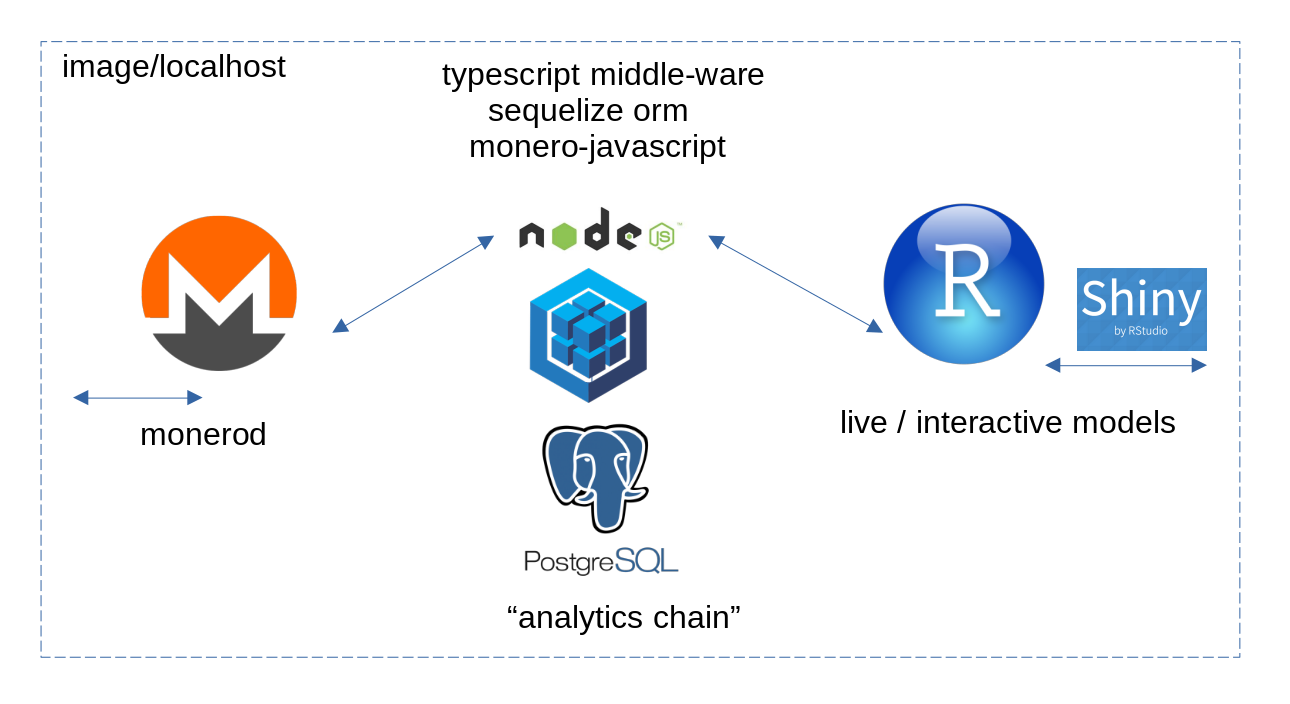
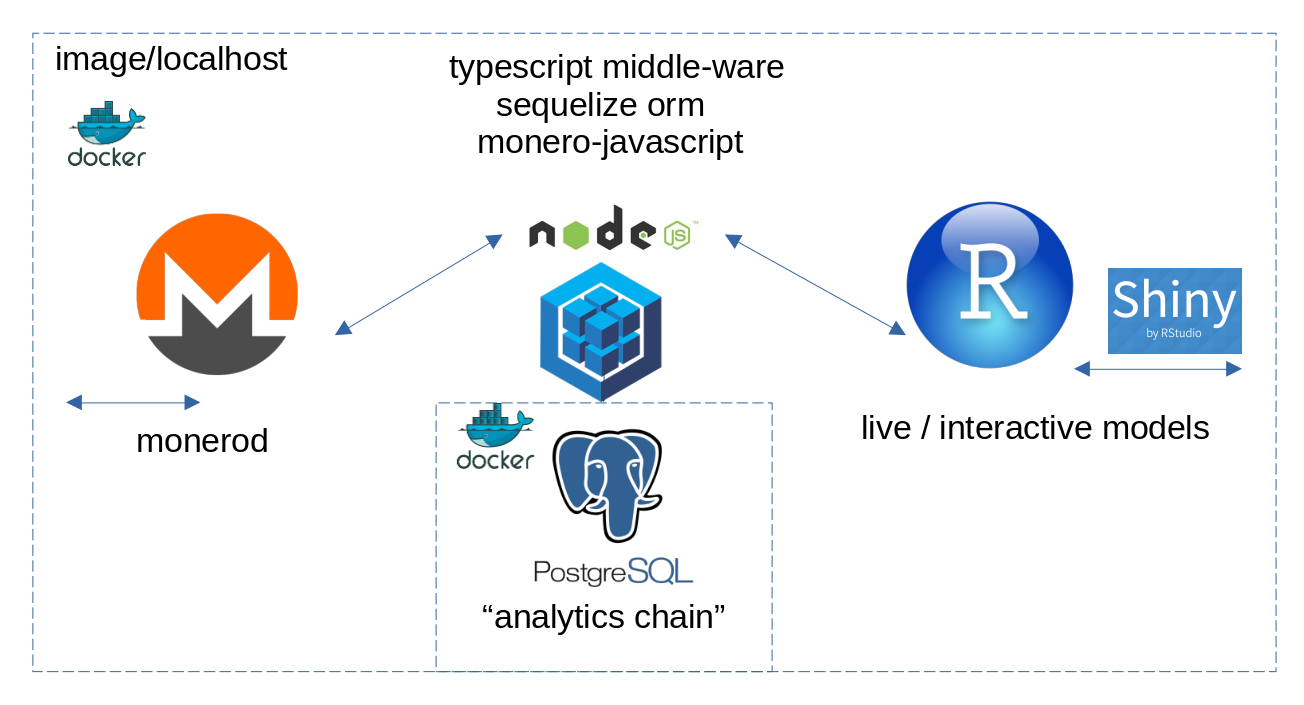
analitiko: migrate to podman + fedora for image builds

diff --git a/analitiko/docker.md b/analitiko/docker.md
@@ -1,0 +1,38 @@
+# Docker
+
+## Automated Model Deployment
+
+Below is a recipe for spinning up a PostgreSQL docker image followed by the Analitiko
+docker image. Feel free to create your own scripts. (Default password is `postgres`)
+
+1. Pull the official PostgreSQL and Analitiko docker images
+
+```bash
+docker pull postgres && docker pull hiahatf/analitiko:v0.1.0
+```
+
+2. Start the PostgreSQL image
+
+```bash
+docker run --rm -P -p <DEVICE_IP>:5432:5432 -e POSTGRES_PASSWORD="<PASSWORD>" --name pg postgres:latest
+```
+
+3. Start Analitiko image
+
+```bash
+docker run --rm -P -p 127.0.0.1:4242:4242 --name analitiko analitiko:v0.1.0 \
+/bin/bash -c "sh deploy.sh <MODEL_DIR> <PGDB_USERNAME> <PGDB_PASSWORD> \
+<DEVICE_IP> <DB_NAME> <NUM_BLOCKS> http://<MONERO_RPC_HOST:PORT>"
+```
+
+OR if you already have a monero node running
+
+```bash
+docker run --rm -P -p 127.0.0.1:4242:4242 --name analitiko analitiko:v0.1.0 \
+/bin/bash -c "sh sync-analitiko.sh <MODEL_DIR> <PGDB_USERNAME> <PGDB_PASSWORD> \
+<DEVICE_IP> <DB_NAME> <NUM_BLOCKS> http://<MONERO_RPC_HOST:PORT>"
+```
+
+That's pretty much it. Sit back and wait for the blockchain and and analytics middleware to sync up.
+The model should be available at port 4242 in this example. Then you can do some cool stuff such as
+running the interactive models with changes on user input. Or put them behind prokurilo and monetize them.

diff --git a/analitiko/README.md b/analitiko/README.md
@@ -55,7 +55,7 @@ Options:
   -h, --pg-host            Postgresql host                   [string] [required]
   -p, --pg-port            Postgresql port                   [string] [required]
       --daemon-host        Host and port of Monero Daemon RPC.
-                                   [boolean] [default: "http://localhost:38081"]
+                                   [string] [default: "http://localhost:38081"]
       --daemon-user        Username of Monero Daemon RPC. [string] [default: ""]
       --daemon-credential  Password of Monero Daemon RPC. [string] [default: ""]
       --num-blocks         Number of blocks from tip to extract
@@ -78,3 +78,7 @@ Missing required arguments: pg-user, pg-credential, pg-db-name, pg-host, pg-port
 [INFO]  2022-03-26T05:31:08.699Z => processed 200 block(s)
 [INFO]  2022-03-26T05:31:15.554Z => processed 300 block(s)
 ```
+
+## Docker
+
+see [docker.md](./docker.md)
